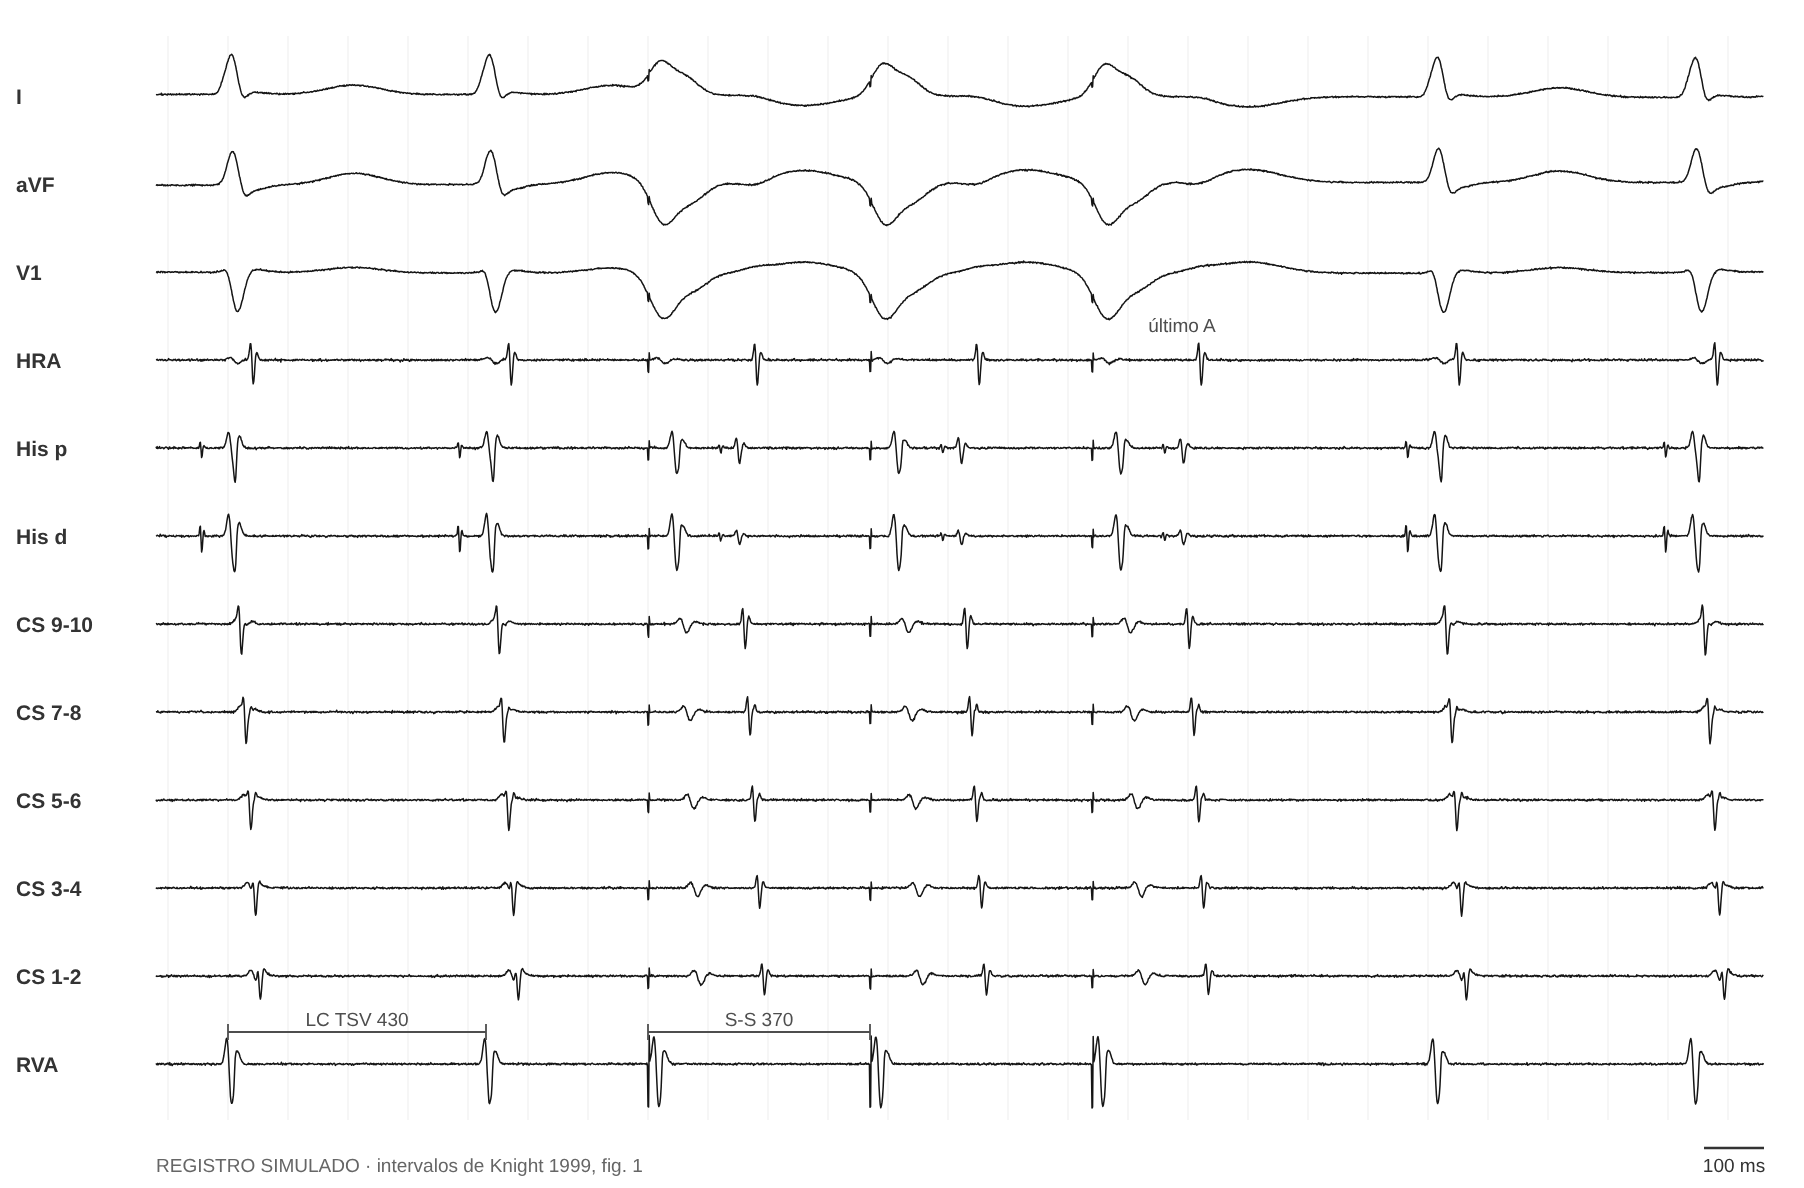
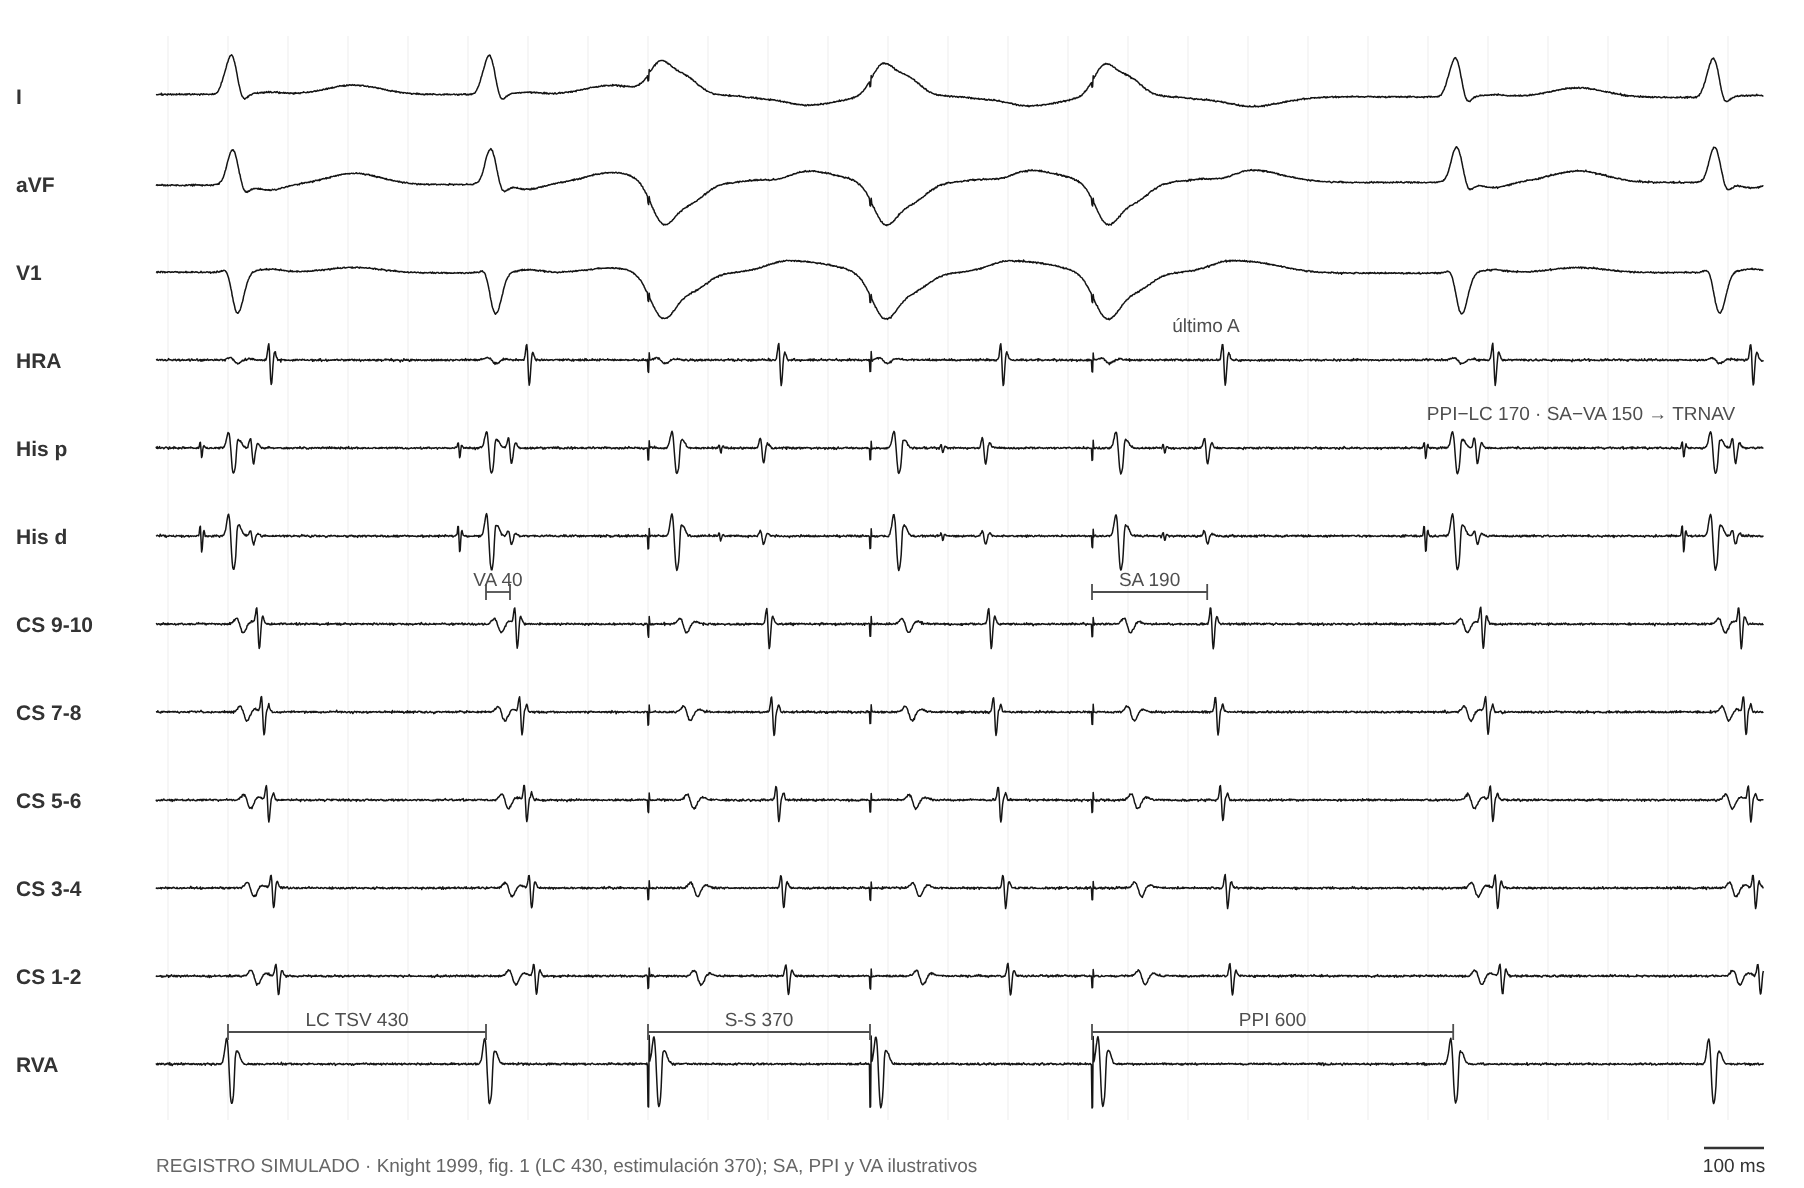
Knight 1999: rotular PPI y SA−VA, con los valores del caso 1
Claude-Session: https://claude.ai/code/session_01Pw5rjt62KK5LeJZoEyFiaM

diff --git a/index.html b/index.html
@@ -1248,7 +1248,7 @@ const GRUPOS = { O: 'Observación', V: 'Ventricular', A: 'Auricular', F: 'Fárma
 const DOI = d => 'https://doi.org/' + d;
 const CASOS = [
   { m: 'vop', ref: 'knight99', fig: 'fig. 1 y 2', doi: '10.1016/S0735-1097(98)00614-7', t: 'Respuesta A-V en TRNAV típica y A-A-V en TA', sim: 'figs/sim/knight99.png',
-    vals: [['TRNAV: LC de la TSV / de estimulación', '430 / 370 ms → A-V'], ['TA: LC de la TSV / de estimulación', '260 / 230 ms → A-A-V']],
+    vals: [['TRNAV: LC de la TSV / de estimulación', '430 / 370 ms → A-V'], ['TA: LC de la TSV / de estimulación', '260 / 230 ms → A-A-V'], ['En el registro simulado (ilustrativos)', 'VA 40 · SA 190 (SA−VA 150) · PPI 600 (PPI−LC 170): TRNAV']],
     nota: 'En la TRNAV el último A acelerado conduce al V; en la TA le sigue otra A del foco antes del V.' },
   { m: 'vop', ref: 'veen11', fig: 'fig. 3', doi: '10.1111/j.1540-8159.2011.03076.x', t: 'Seudo A-A-V en una TRNAV rápida-lenta', sim: 'figs/sim/veen11_pseudo.png',
     vals: [['LC TSV / estimulación', '380 / 360 ms'], ['SA / VA', '415 / 265 ms (SA−VA 150)'], ['PPI / cPPI−LC', '565 / 185 ms']],

diff --git a/sw.js b/sw.js
@@ -1,6 +1,6 @@
 // Permite instalar la app y abrirla sin conexión. Primero la red (siempre lo último publicado); si no hay, la copia.
 // Si cambiás un archivo, subí CACHE_VERSION.
-const CACHE_VERSION = 'mef-v28';
+const CACHE_VERSION = 'mef-v29';
 const ARCHIVOS = ['./', './index.html', './manifest.json', './iconos/icon-192.png', './iconos/icon-512.png'];
 self.addEventListener('install', e => e.waitUntil(caches.open(CACHE_VERSION).then(c => c.addAll(ARCHIVOS)).then(() => self.skipWaiting())));
 self.addEventListener('activate', e => e.waitUntil(caches.keys().then(ks => Promise.all(ks.filter(k => k !== CACHE_VERSION).map(k => caches.delete(k)))).then(() => self.clients.claim())));

diff --git a/herramientas/simulador/cases.py b/herramientas/simulador/cases.py
@@ -6,15 +6,17 @@ HV = 45
 S = {}
 
 # 1. Knight 1999: TRNAV típica, LC 430, estimulación VD 370 → A-V
-svt = [0, 430]; sp = [700, 1070, 1440]; AH = 430 - (HV + 10)
-A = [v + 10 for v in svt] + [s + 150 for s in sp]
-ret_h = A[-1] + AH; ret_v = ret_h + HV; after = [ret_v, ret_v + 430]
-S['knight99'] = dict(win=(-120, 2560), src='intervalos de Knight 1999, fig. 1',
+#    VA 40, SA 190 (SA−VA 150) y PPI 600 (PPI−LC 170): ilustrativos, iguales a los del caso 1 de práctica.
+svt = [0, 430]; sp = [700, 1070, 1440]
+A = [v + 40 for v in svt] + [s + 190 for s in sp]
+ret_v = sp[-1] + 600; ret_h = ret_v - HV; after = [ret_v, ret_v + 430]
+S['knight99'] = dict(win=(-120, 2560), src='Knight 1999, fig. 1 (LC 430, estimulación 370); SA, PPI y VA ilustrativos',
     beats=[(v, 'n') for v in svt + after] + [(s, 'pa') for s in sp], spikes=sp,
-    atr=[(a, 'conc_his', -1) for a in A + [v + 10 for v in after]],
+    atr=[(a, 'conc_his', -1) for a in A + [v + 40 for v in after]],
     h_ante=[v - HV for v in svt + after], h_retro=[s + 120 for s in sp],
-    cal=[(0, 430, 'RVA', 'LC TSV 430'), (sp[0], sp[1], 'RVA', 'S-S 370')],
-    marks=[(A[-1], 'HRA', 'último A')])
+    cal=[(0, 430, 'RVA', 'LC TSV 430'), (sp[0], sp[1], 'RVA', 'S-S 370'), (sp[-1], ret_v + 2, 'RVA', 'PPI 600'),
+         (sp[-1], A[-1] + 2, 'CS 9-10', 'SA 190'), (svt[1], svt[1] + 40, 'CS 9-10', 'VA 40')],
+    marks=[(A[-1], 'HRA', 'último A'), (ret_v + 215, 'His p', 'PPI−LC 170 · SA−VA 150 → TRNAV')])
 
 # 2. Veenhuyzen 2011 fig. 3: seudo A-A-V (TRNAV rápida-lenta)
 svt = [0, 380]; sp = [700, 1060, 1420]

diff --git a/PENDIENTES.md b/PENDIENTES.md
@@ -10,7 +10,7 @@ En todos conviene mirar las amplitudes y la morfología del QRS, la visibilidad 
 
 ### Fichas de maniobras (casos publicados)
 
-- [ ] [ver](https://drsebastianmaldonado.github.io/Maniobras-EEF/figs/sim/knight99.png) **Knight 1999** (A-V vs A-A-V): el SA durante la estimulación es ilustrativo.
+- [ ] [ver](https://drsebastianmaldonado.github.io/Maniobras-EEF/figs/sim/knight99.png) **Knight 1999** (A-V vs A-A-V): publicados LC 430 y estimulación 370. VA 40, SA 190 (SA−VA 150) y PPI 600 (PPI−LC 170) son ilustrativos, iguales a los del caso 1 de práctica.
 - [ ] [ver](https://drsebastianmaldonado.github.io/Maniobras-EEF/figs/sim/veen11_pseudo.png) **Veenhuyzen 2011, fig. 3** (seudo A-A-V).
 - [ ] [ver](https://drsebastianmaldonado.github.io/Maniobras-EEF/figs/sim/veen11_fusion.png) **Veenhuyzen 2011, fig. 5** (fusión desde el VI): morfología del QRS de fusión y del His ortodrómico. También se usa en la ficha de conceptos de reset.
 - [ ] [ver](https://drsebastianmaldonado.github.io/Maniobras-EEF/figs/sim/gt06.png) **González-Torrecilla 2006** (PPI corregido).
